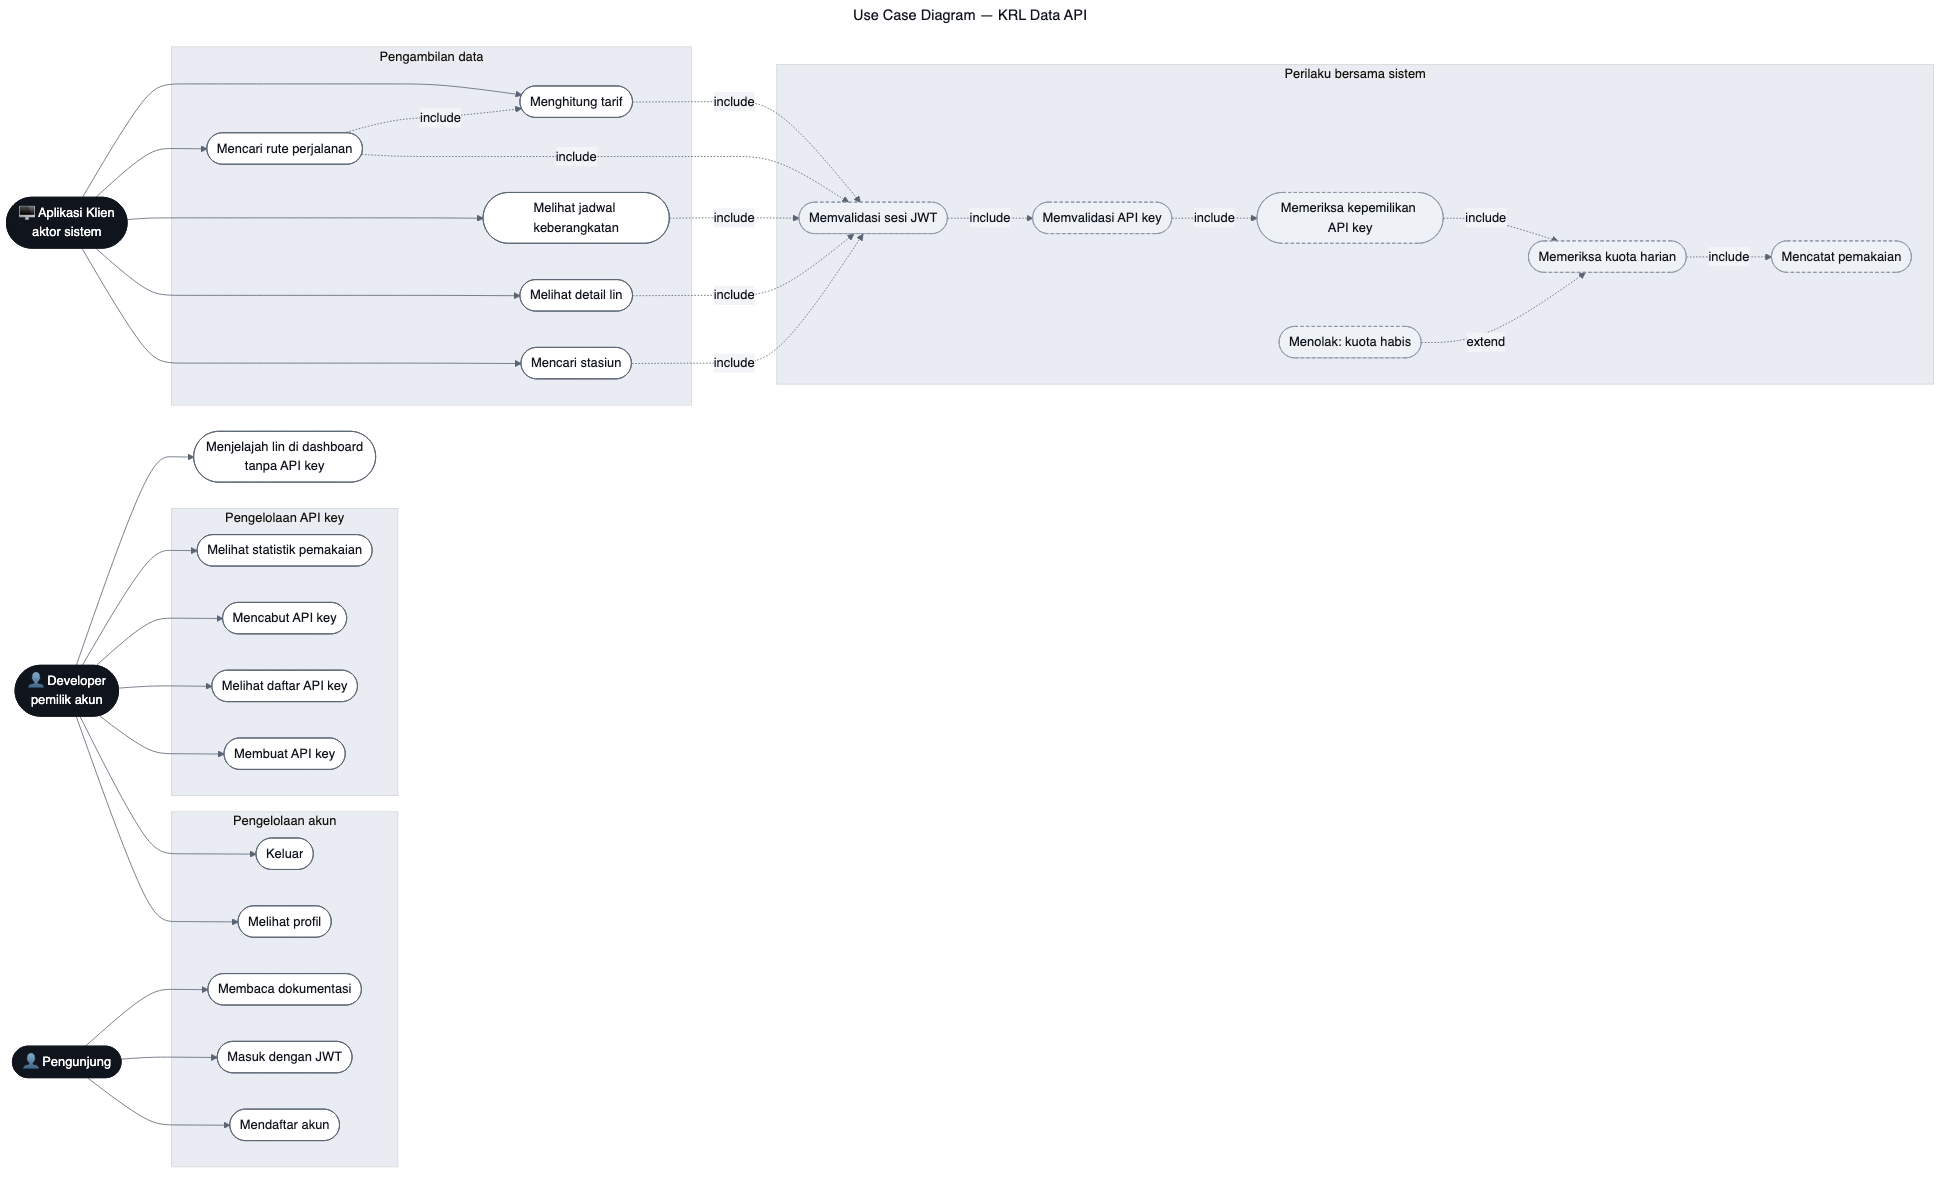
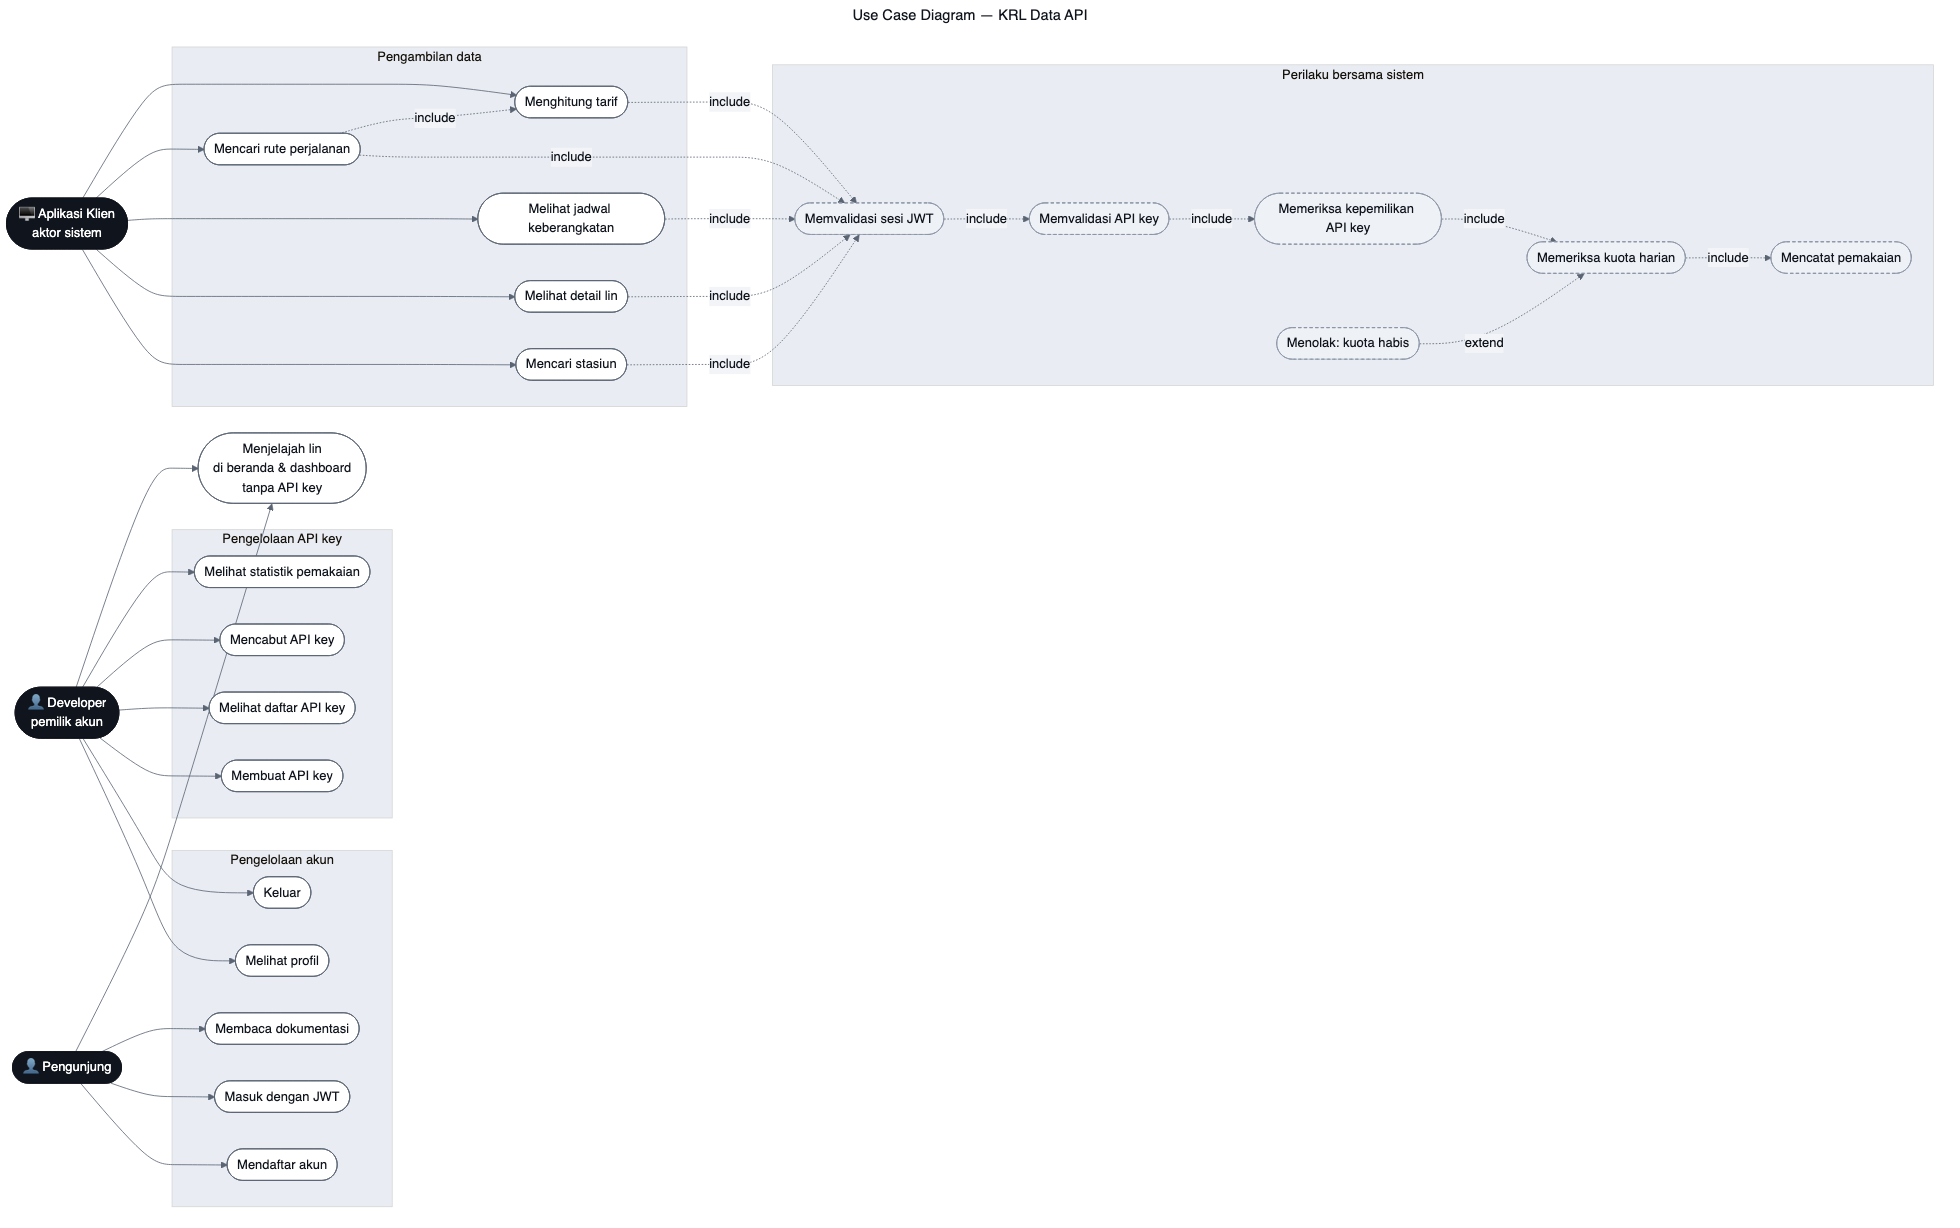
release version 2.0

diff --git a/public/app.css b/public/app.css
@@ -476,6 +476,45 @@ p + p { margin-top: 12px; }
 .linebox { margin-top: 26px; }
 .linebox[hidden] { display: none; }
 
+/* Baris lin di beranda: seluruh barisnya tombol, penanda aktifnya sama dengan
+   penanda bagian aktif pada daftar isi halaman dokumentasi. */
+/* Margin negatif meniadakan padding baris, jadi chip tetap lurus dengan judul
+   panel sementara latar sorotnya melebar sedikit ke luar kolom teks. */
+.linerows {
+  display: grid;
+  gap: 2px;
+  margin: 14px -12px 0;
+}
+
+.linerow {
+  display: grid;
+  grid-template-columns: 44px 170px auto;  /* kode · nama · angka */
+  justify-items: start;                    /* isi tiap kolom rata kiri */
+  align-items: center;                     /* chip sejajar tengah, bukan garis dasar */
+  gap: 14px;
+  width: 100%;
+  padding: 8px 12px;
+  border: 0;
+  border-radius: var(--radius);
+  background: transparent;
+  color: inherit;
+  font: inherit;
+  text-align: left;
+  cursor: pointer;
+  transition: background 120ms ease;
+}
+
+.linerow:hover { background: var(--surface-sunk); }
+
+/* Penanda baris aktif memakai inset shadow, bukan border: border akan menggeser
+   isi baris dan membuatnya tidak sejajar dengan baris lain. */
+.linerow.is-active {
+  background: var(--surface-sunk);
+  box-shadow: inset 2px 0 0 var(--signal);
+}
+
+.hero-lin[hidden] { display: none; }
+
 .chip--active { background: #e2f2e9; border-color: #b3ddc6; color: var(--ok); }
 .chip--revoked { background: #f6e4e3; border-color: #e2bcb9; color: var(--stop); }
 
@@ -685,6 +724,9 @@ code.inline {
 }
 
 @media (max-width: 620px) {
+  .linerow { grid-template-columns: 44px minmax(0, 1fr); gap: 6px 14px; }
+  .linerow > :last-child { grid-column: 2; }
+
   .page { padding: 28px 16px 56px; }
   .signage__inner { padding: 12px 16px; gap: 14px; }
   .signage__nav { gap: 14px; }

diff --git a/src/controllers/dashboardController.js b/src/controllers/dashboardController.js
@@ -10,18 +10,20 @@ const {
 
 /** Beranda. Diagram jalur di bagian atas dibaca langsung dari basis data. */
 exports.home = async (req, res) => {
-  const [stats, lines, featuredLine] = await Promise.all([
-    getNetworkStats(),
-    listLines(),
-    getLineByCode('BOG'),
-  ]);
+  const [stats, lines] = await Promise.all([getNetworkStats(), listLines()]);
+
+  // Keenam lin ikut dikirim supaya pengunjung bisa mengganti lin yang tampil di
+  // panel contoh data tanpa memuat ulang halaman. Beranda terbuka untuk umum,
+  // jadi mengambilnya lewat /v1/lines dari peramban bukan pilihan: endpoint itu
+  // menuntut token dan API key.
+  const lineDetails = await Promise.all(lines.map((l) => getLineByCode(l.code)));
 
   res.render('home', {
     title: 'Beranda',
     user: req.user,
     stats,
     lines,
-    featuredLine,
+    lineDetails,
   });
 };
 

diff --git a/docs/laporan.md b/docs/laporan.md
@@ -1,14 +1,13 @@
 # KRL Data API
 ## Laporan Proyek — Software as a Service Penyedia Data Transportasi
 
-**Mata kuliah:** Pemrograman Web Lanjut
-**Nama:** _(isi nama)_
-**NIM:** _(isi NIM)_
+**Mata kuliah:** Pemrograman Web Servis
+**Nama:** Fannandya Sutan Sakti Pratama
+**NIM:** 20240140033
 **Tanggal:** 24 Agustus 2026
 **URL produksi:** _(isi setelah deploy, misalnya https://ta-pws.vercel.app)_
-**Repositori:** _(isi URL repositori)_
+**Repositori:** https://github.com/Fannandya/api-krl.git
 
----
 
 ## 1. Pendahuluan
 
@@ -46,7 +45,6 @@ Cakupan dibatasi pada enam lin: lima lin Commuter Line ditambah KA Bandara
 Soekarno-Hatta. Jadwal disimpan sebagai pola operasi, bukan sebagai baris jam
 keberangkatan satu per satu — alasannya dijelaskan di bagian 3.3.
 
----
 
 ## 2. Analisis Kebutuhan
 
@@ -71,6 +69,7 @@ keberangkatan satu per satu — alasannya dijelaskan di bagian 3.3.
 | F-15 | Sistem menuntut sesi yang masuk (token JWT) pada seluruh endpoint data | Sistem |
 | F-16 | Sistem menolak API key yang bukan milik akun yang sedang masuk | Sistem |
 | F-17 | Developer dapat menjelajah isi data lin langsung dari dashboard | Developer |
+| F-18 | Pengunjung dapat melihat isi data tiap lin dari beranda tanpa mendaftar | Pengunjung |
 
 ### 2.2 Kebutuhan non-fungsional
 
@@ -85,7 +84,6 @@ keberangkatan satu per satu — alasannya dijelaskan di bagian 3.3.
 | N-07 | Kuota harian berganti pada tengah malam waktu Jakarta, bukan waktu server |
 | N-08 | Tabel tidak boleh dapat dibaca langsung dari internet, melainkan hanya lewat endpoint yang disediakan |
 
----
 
 ## 3. Perancangan
 
@@ -300,7 +298,6 @@ pemeriksaan keabsahan tetap bisa dipakai sendirian bila kelak dibutuhkan, dan
 supaya kedua penolakan bisa dibedakan pemanggil: `401` untuk kredensial yang
 tidak sah, `403` untuk kredensial sah yang tidak berhak.
 
----
 
 ## 4. Implementasi
 
@@ -478,7 +475,6 @@ penghitungan di SQL dan pada nilai `reset_at` yang dikirim ke klien:
 Setiap balasan membawa header `X-RateLimit-Limit`, `X-RateLimit-Remaining`, dan
 `X-RateLimit-Reset`, sehingga klien tahu sisa jatahnya tanpa perlu menebak.
 
----
 
 ## 5. Pengujian
 
@@ -512,7 +508,6 @@ jumlah tarif tiap leg.
 Batas kuota diuji dengan menyisipkan paket khusus berkuota dua baris lewat SQL,
 sehingga penolakan 429 dapat dibuktikan tanpa perlu mengirim seribu permintaan.
 
----
 
 ## 6. Deployment
 
@@ -522,19 +517,27 @@ sana lewat `vercel.json`:
 
 ```json
 {
-  "functions": { "api/index.js": { "includeFiles": "src/views/**" } },
+  "functions": { "api/index.js": { "includeFiles": "{src/views/**,public/**}" } },
   "rewrites": [{ "source": "/(.*)", "destination": "/api" }]
 }
 ```
 
-Baris `includeFiles` wajib ada. Berkas templat EJS tidak ikut terbawa secara
-otomatis ke dalam bundel fungsi, dan tanpa baris itu dashboard akan menjawab 500
-di produksi meskipun berjalan normal di komputer sendiri.
+Baris `includeFiles` wajib ada, dan harus mencakup **kedua** pola ini. Berkas
+templat EJS dan berkas statis (`public/app.css`) sama-sama tidak ikut terbawa
+otomatis ke dalam bundel fungsi karena keduanya dibaca lewat jalur berbasis
+`__dirname` yang dibangun saat aplikasi berjalan
+(`app.set('views', ...)` dan `express.static(path.join(__dirname, '..',
+'public'))` di `src/app.js`) — bukan `require` statis yang bisa dilacak alat
+pemaket. Tanpa `src/views/**`, dashboard menjawab 500 di produksi; tanpa
+`public/**`, halamannya tetap hidup tetapi tanpa gaya sama sekali. Keduanya
+berjalan normal di komputer sendiri karena di sana berkasnya memang ada di
+disk, bukan di dalam bundel.
 
 Koneksi ke Supabase memakai **transaction pooler pada porta 6543**, bukan
-koneksi langsung pada porta 5432, dengan `max: 1` pada kolam koneksi. Setiap
-pemanggilan fungsi serverless membuka koneksinya sendiri; koneksi langsung akan
-menghabiskan jatah koneksi Supabase begitu lalu lintas naik.
+koneksi langsung pada porta 5432, dengan `max: 1` pada kolam koneksi
+(`src/config/database.js`). Setiap pemanggilan fungsi serverless membuka
+koneksinya sendiri; koneksi langsung akan menghabiskan jatah koneksi Supabase
+begitu lalu lintas naik.
 
 Environment variable yang harus diisi di Vercel:
 
@@ -546,7 +549,17 @@ Environment variable yang harus diisi di Vercel:
 | `NODE_ENV` | `production` |
 | `APP_URL` | URL produksi, dipakai pada contoh di halaman dokumentasi |
 
----
+`PORT` tidak perlu diisi di Vercel — variabel itu hanya dipakai
+`scripts/dev.js` untuk server lokal; `api/index.js` mengekspor aplikasi
+Express tanpa memanggil `app.listen()` sendiri.
+
+Skema dan data awal (`npm run migrate`) hanya perlu dijalankan **sekali**,
+saat basis data produksi masih kosong. Menjalankannya lagi setelah basis data
+berisi data sungguhan berbahaya: `db/schema.sql` diawali `DROP TABLE`, sehingga
+migrasi ulang menghapus seluruh isi tabel sebelum membangunnya kembali dari
+`db/seed.sql`. Jalankan ulang hanya bila `db/schema.sql` berubah dan perubahan
+itu memang perlu diterapkan ke produksi.
+
 
 ## 7. Hasil
 
@@ -585,7 +598,7 @@ kabupaten, dengan total panjang jalur 234,6 km.
 
 ### 7.4 Antarmuka yang dihasilkan
 
-Selain REST API, sistem menghasilkan dua antarmuka yang keduanya dirender di
+Selain REST API, sistem menghasilkan tiga antarmuka yang semuanya dirender di
 sisi server dari sumber data yang sama dengan API-nya.
 
 **Halaman dokumentasi `/docs`.** Terbuka untuk umum dan berdiri sendiri: peta
@@ -599,22 +612,32 @@ diperiksa bila ia tidak bisa menimbulkan efek samping. Angka kuota pada halaman
 itu dibaca dari tabel `plans`, bukan ditulis tetap, sehingga tidak bisa menyimpang
 dari kuota yang sesungguhnya ditegakkan.
 
+**Panel contoh isi data pada beranda.** Keenam lin dirender sekaligus dan satu
+di antaranya terlihat; memilih baris pada daftar "Lin yang tersedia" mengganti
+diagram jalur di panel atas, lalu halaman menggulir kembali ke panel itu.
+Gulirnya menghormati `prefers-reduced-motion`, sehingga pengunjung yang meminta
+gerak dikurangi berpindah tanpa animasi. Panel ini terbuka tanpa mendaftar, jadi
+calon pemakai dapat menilai isi datanya lebih dahulu sebelum memutuskan membuat
+akun — dan bila JavaScript mati, lin pertama tetap tampil sehingga halaman tidak
+kehilangan isinya.
+
 **Penjelajah lin pada dashboard.** Enam chip berwarna sesuai identitas tiap lin;
 memilih satu menampilkan ringkasannya, diagram urutan stasiun, dan blok JSON.
 Tujuannya adalah verifikasi: JSON yang ditampilkan dicetak dari objek `listLines()`
 yang persis sama dengan yang dibalas `GET /v1/lines`, sehingga hasil di Postman
 dapat dicocokkan baris per baris dengan tampilan di dashboard, bukan dikira-kira.
 
-Bagian kedua ini juga menunjukkan satu konsekuensi rancangan yang tidak langsung
-terlihat. Setelah endpoint data menuntut API key, halaman dashboard **tidak bisa**
-memanggil `/v1/lines` dari peramban: nilai utuh API key hanya ditampilkan sekali
-saat dibuat dan sesudahnya basis data hanya memegang hash-nya, sehingga peramban
-tidak punya apa pun untuk dikirim pada header `X-API-Key`. Karena itu datanya
-dirender bersama halaman, dan pergantian lin tidak memerlukan permintaan jaringan
-sama sekali. Aturan keamanan yang dipilih di satu tempat ternyata menentukan cara
-antarmuka di tempat lain harus dibangun.
+Kedua penjelajah lin itu menunjukkan satu konsekuensi rancangan yang tidak
+langsung terlihat. Setelah endpoint data menuntut API key, halaman beranda maupun
+dashboard **tidak bisa** memanggil `/v1/lines` dari peramban: nilai utuh API key
+hanya ditampilkan sekali saat dibuat dan sesudahnya basis data hanya memegang
+hash-nya, sehingga peramban tidak punya apa pun untuk dikirim pada header
+`X-API-Key`. Pada beranda alasannya bahkan lebih mendasar — pengunjungnya belum
+tentu punya akun sama sekali. Karena itu datanya dirender bersama halaman, dan
+pergantian lin tidak memerlukan permintaan jaringan sama sekali. Aturan keamanan
+yang dipilih di satu tempat ternyata menentukan cara antarmuka di tempat lain
+harus dibangun.
 
----
 
 ## 8. Penutup
 
@@ -650,7 +673,6 @@ karena ia bekerja pada graf, bukan pada asumsi tentang KRL. Penerapan pembatasan
 per menit dan pembayaran paket Pro adalah langkah berikutnya yang paling
 langsung.
 
----
 
 ## Lampiran A — Daftar endpoint
 

diff --git a/README.md b/README.md
@@ -50,19 +50,27 @@ Aturan mainnya:
 Penjelasan lengkapnya, termasuk tiap endpoint sama contoh balasannya, ada di
 halaman `/docs` pas aplikasinya jalan.
 
-## Ngintip isi datanya dari dashboard
+## Ngintip isi datanya
 
-Di bawah dashboard ada penjelajah lin: enam chip warna-warni, klik satu, keluar
-ringkasan lin + diagram urutan stasiunnya + blok JSON-nya.
+Ada dua tempat buat lihat-lihat isi datanya tanpa nembak API sama sekali.
 
-JSON itu dicetak dari objek yang sama persis dengan yang dibalas `GET /v1/lines`,
-jadi kamu bisa nyocokin hasil Postman sama tampilan dashboard baris per baris —
-nggak usah main tebak-tebakan angka.
+**Di beranda.** Panel "Contoh isi data" di atas nampilin diagram jalur satu lin
+lengkap sama urutan stasiunnya. Mau ganti lin? Klik aja salah satu baris di panel
+"Lin yang tersedia" di bawah — diagramnya ganti, terus halamannya balik gulir ke
+atas sendiri. Nggak perlu daftar, nggak perlu login. Jadi orang bisa nilai dulu
+datanya kayak apa sebelum mutusin bikin akun.
 
-Kenapa datanya dirender dari server dan bukan di-fetch? Soalnya dashboard nggak
+**Di dashboard.** Ada penjelajah lin: enam chip warna-warni, klik satu, keluar
+ringkasan lin + diagram urutan stasiunnya + blok JSON-nya. JSON itu dicetak dari
+objek yang sama persis dengan yang dibalas `GET /v1/lines`, jadi kamu bisa
+nyocokin hasil Postman sama tampilan dashboard baris per baris — nggak usah main
+tebak-tebakan angka.
+
+Kenapa datanya dirender dari server dan bukan di-fetch? Soalnya halamannya nggak
 punya API key buat dikirim. Nilai utuh key cuma muncul sekali pas dibuat, sisanya
-tinggal hash di basis data. Jadi ya, aturan keamanan di satu tempat maksa cara
-bikin UI di tempat lain.
+tinggal hash di basis data — dan di beranda malah lebih parah, pengunjungnya
+belum tentu punya akun. Jadi ya, aturan keamanan di satu tempat maksa cara bikin
+UI di tempat lain.
 
 ## Jalanin di laptop sendiri
 
@@ -111,14 +119,26 @@ PostgREST, baris-baris itu nggak ngefek apa-apa.
 ## Deploy ke Vercel
 
 1. Push repo ini ke GitHub.
-2. Import sebagai project baru di Vercel.
-3. Isi environment variable: `DATABASE_URL`, `JWT_SECRET`, `JWT_EXPIRES`,
-   `NODE_ENV=production`, `APP_URL`.
-4. Jalanin `npm run migrate` sekali dengan `DATABASE_URL` yang nunjuk ke Supabase.
+2. Import sebagai project baru di Vercel (butuh Login Connection ke GitHub di
+   akun Vercel-mu dulu, kalau belum pernah — Account Settings → Login
+   Connections).
+3. Isi environment variable di scope Production: `DATABASE_URL`, `JWT_SECRET`,
+   `JWT_EXPIRES`, `NODE_ENV=production`, `APP_URL`. `PORT` nggak usah diisi —
+   itu cuma dipakai server lokal, `api/index.js` di Vercel nggak manggil
+   `app.listen()`.
+4. **Kalau basis data Supabase-nya masih kosong**, jalanin `npm run migrate`
+   sekali dengan `DATABASE_URL` yang nunjuk ke situ. Kalau sudah pernah
+   dimigrasi (tabelnya sudah terisi), **jangan jalanin lagi** — `schema.sql`
+   diawali `DROP TABLE`, jadi menjalankannya ke basis data yang sudah punya
+   user asli bakal menghapus semua data itu. Cukup dijalankan lagi kalau
+   `db/schema.sql` berubah dan perlu diterapkan ulang.
 
-`vercel.json` udah ada `includeFiles: "src/views/**"`. Baris itu wajib —
-tanpa itu templat EJS nggak keikut ke bundel fungsi, dan dashboard bakal 500 di
-produksi padahal di laptop aman-aman aja. Sempat kejadian, makanya ditulis.
+`vercel.json` sekarang punya `includeFiles: "{src/views/**,public/**}"`. Dua
+baris itu wajib — tanpa `src/views/**`, templat EJS nggak keikut ke bundel
+fungsi dan dashboard bakal 500 di produksi padahal di laptop aman-aman aja.
+Tanpa `public/**`, hal yang sama kejadian ke `app.css`: filenya kebaca lewat
+`express.static(path.join(__dirname, '..', 'public'))` — pola dinamis yang
+nggak ikut ke-trace ke bundel kalau nggak disebut eksplisit di sini.
 
 ## Perintah
 
